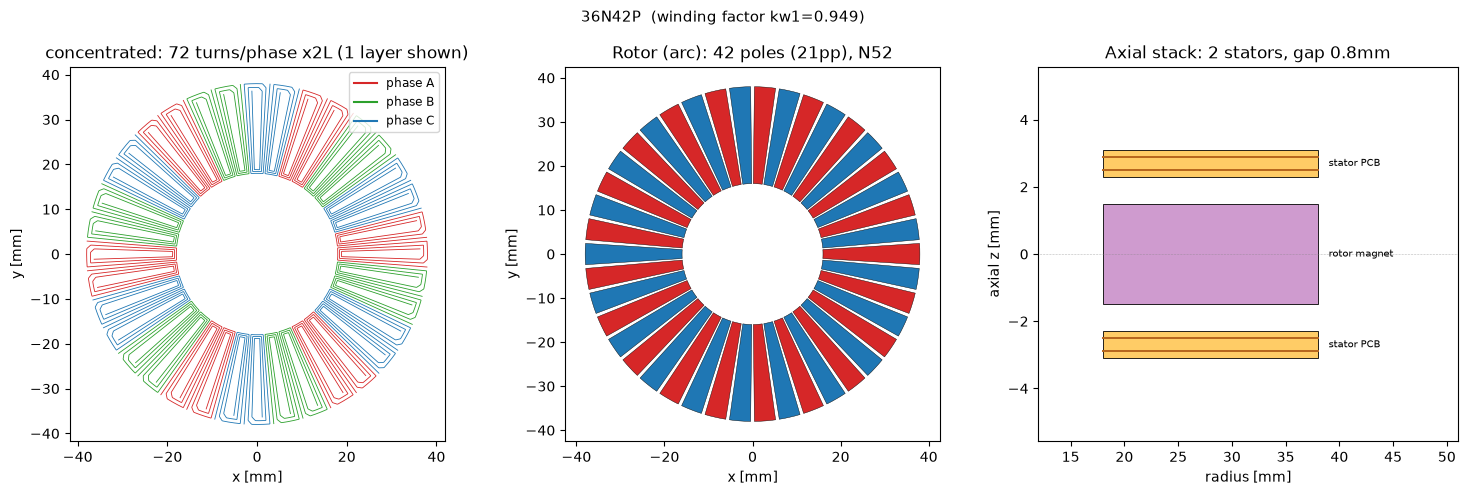
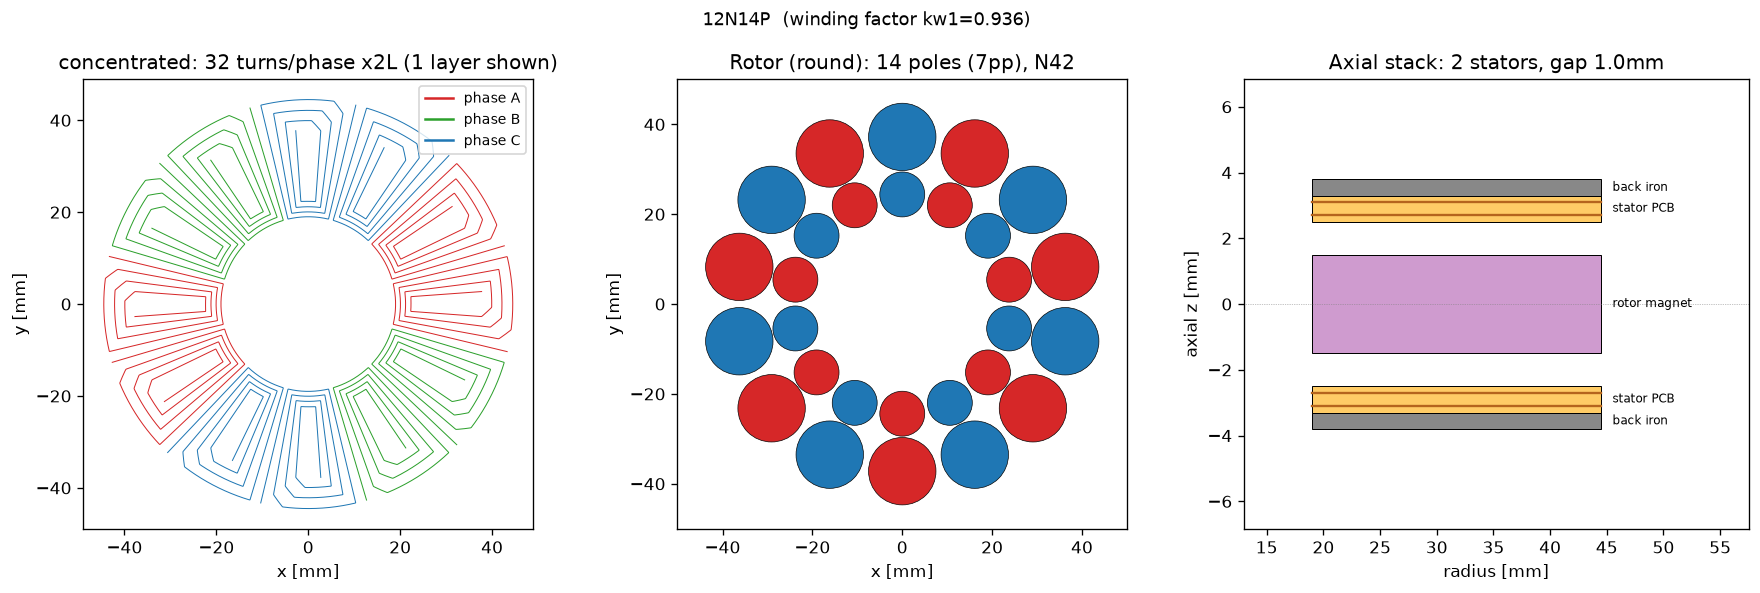
Refocus README on the 12N14P; enforce >=1mm magnet spacing; correct 3-ring
Repo now leads with the fabricated 12N14P main event, not the 42-pole eval:
- README hero + physics images regenerated from dualstator90-12n14p (were 36N42P);
  worked-examples reordered so "the board that was fabricated" is first, with the
  80/140 mm designs demoted to a labelled "Generalization evals" section.

>=1 mm magnet-to-housing spacing:
- Generic engine check: magnets.magnet_edge_gaps + a warning in evaluate_design
  (flags <1 mm pole-to-pole and ring-to-ring on any round rotor). Unit-tested.
- Corrected the 140 mm 3rd ring: Ø8 (0.0 mm radial -- touching, my error) -> Ø6
  (1.0 mm radial). Torque honestly re-stated +21.8% (142 -> 173 mN.m, Kt 118), and
  the design still trips the warning at 0.98 mm (the agent's own inner ring).
- Documented round3 + the rule in the design guide and skill.

140 mm design (dualstator140-24n28p): framed as the independent agent's untouched
one-shot design, with the SINGLE exception of the maintainer-requested third ring.

Fixes found in a correctness audit: stale examples/gimbal90 path in CLAUDE.md and a
broken --session gimbal90 command in the fabricated README (rename had missed them).
All published numbers verified against a fresh evaluate_design; suite 142 passed.

Claude-Session: https://claude.ai/code/session_016nY5Rn2NTaGpBBvjt3SCXb

diff --git a/index.html b/index.html
@@ -83,10 +83,10 @@
         <span class="badge fail">GATE: needs a choke</span>
         <span class="arrow">→</span></h2>
       <p>A fresh agent, given only an application brief and the design skill, took
-      the workflow end to end on its own: a 24N28P machine on three rings of disc
-      magnets, ~192&nbsp;mNm continuous (±30%), a complete board and fab-ready
-      Gerbers — and an honest verdict that it needs a series choke to run from a
-      bare ODrive.</p>
+      the workflow end to end on its own: a 24N28P machine (later given a third
+      magnet ring), ~173&nbsp;mNm continuous (±30%), a complete board and
+      fab-ready Gerbers — and an honest verdict that it needs a series choke to
+      run from a bare ODrive.</p>
     </a>
     <a class="card" href="examples/dualstator80-36n42p/report.html">
       <h2>dualstator80-36n42p — an 80&thinsp;mm no-choke attempt, honestly lost

diff --git a/tests/test_magnets.py b/tests/test_magnets.py
@@ -32,6 +32,30 @@ def test_round_two_ring_structure():
             assert np.hypot(cx, cy) == pytest.approx(ring_r, rel=1e-3)
 
 
+def test_magnet_edge_gaps():
+    from pcb_motor.magnets import magnet_edge_gaps
+    # arc topology has no discrete discs
+    assert magnet_edge_gaps(RotorConfig(magnet_topology="arc")) is None
+    # round3 with generous spacing: outer 58/Ø12, mid 48/Ø6, inner 40/Ø8, 28 poles
+    r = RotorConfig(magnet_topology="round3", pole_pairs=14,
+                    outer_ring_r_m=58e-3, outer_disc_d_m=12e-3,
+                    mid_ring_r_m=48e-3, mid_disc_d_m=6e-3,
+                    inner_ring_r_m=40e-3, inner_disc_d_m=8e-3)
+    g = magnet_edge_gaps(r)
+    # radial: (48-40)-(3+4)=1.0mm ; (58-48)-(6+4)... =(10)-(9)=1.0mm
+    assert g["radial_m"] == pytest.approx([1e-3, 1e-3], abs=1e-6)
+    # min is the tight inner pole-to-pole gap (~0.98mm), and it's the overall min
+    assert g["min_m"] == pytest.approx(min(g["circumferential_m"] + g["radial_m"]))
+    # widening the disc shrinks every gap
+    g2 = magnet_edge_gaps(dataclasses_replace(r, mid_disc_d_m=8e-3))
+    assert min(g2["radial_m"]) < min(g["radial_m"])
+
+
+def dataclasses_replace(obj, **kw):
+    import dataclasses
+    return dataclasses.replace(obj, **kw)
+
+
 def test_round3_three_ring_structure():
     """round3: 3 discs (outer+middle+inner) per pole, all sharing that pole's
     polarity; disc centres sit on the three ring radii, outer>mid>inner."""

diff --git a/pcb_motor/magnets.py b/pcb_motor/magnets.py
@@ -145,6 +145,28 @@ def active_rings(rotor: RotorConfig) -> list[tuple[float, float]]:
     return [outer, inner]
 
 
+def magnet_edge_gaps(rotor: RotorConfig) -> dict | None:
+    """Edge-to-edge spacing [m] between neighbouring disc magnets on a round
+    rotor (``None`` for the ``arc`` topology, which has no discrete discs).
+
+    Two ways discs crowd their neighbours, both needing carrier/housing between
+    them: **circumferential** (pole-to-pole on one ring) and **radial**
+    (ring-to-ring). Returns per-ring circumferential gaps, ring-to-ring radial
+    gaps, and the tightest of all. Manufacturability wants >= ~1 mm everywhere.
+    """
+    if not is_round(rotor.magnet_topology):
+        return None
+    rings = active_rings(rotor)                      # (ring_r, disc_d), outer..inner
+    n_poles = 2 * rotor.pole_pairs
+    circ = [2.0 * np.pi * rr / n_poles - dd for rr, dd in rings]
+    rs = sorted(rings, key=lambda x: x[0])           # inner..outer by radius
+    radial = [(r2 - r1) - (d1 / 2.0 + d2 / 2.0)
+              for (r1, d1), (r2, d2) in zip(rs, rs[1:])]
+    allgaps = circ + radial
+    return {"circumferential_m": circ, "radial_m": radial,
+            "min_m": min(allgaps) if allgaps else float("inf")}
+
+
 def _round_two_ring_loops(
     rotor: RotorConfig,
     theta_rad: float = 0.0,

diff --git a/pcb_motor/evaluate.py b/pcb_motor/evaluate.py
@@ -28,6 +28,11 @@ from .inertia import rotor_inertia, total_inertia
 # hot spot even when the lumped thermal balance is satisfied.
 NECK_DENSITY_LIMIT_A_MM2 = 80.0
 
+# Minimum carrier/housing between neighbouring disc magnets [m]. Round-magnet
+# rotors need material between discs (both pole-to-pole and ring-to-ring) to hold
+# them; below this the rotor is not practically buildable.
+MIN_MAGNET_GAP_M = 1.0e-3
+
 
 def evaluate_design(design: MotorDesign) -> dict:
     """Evaluate one design point. Returns the full result-variable dict."""
@@ -114,6 +119,21 @@ def evaluate_design(design: MotorDesign) -> dict:
             f"narrowest section exceeds ~{NECK_DENSITY_LIMIT_A_MM2:.0f} A/mm^2: "
             "expect a hot neck at r_inner -- widen trace_width_m, add copper "
             "weight, or move r_inner_m outward."
+        )
+
+    # Disc-magnet spacing: round rotors need carrier/housing between magnets.
+    from .magnets import magnet_edge_gaps
+    gaps = magnet_edge_gaps(design.rotor())
+    if gaps is not None and gaps["min_m"] < MIN_MAGNET_GAP_M:
+        circ = min(gaps["circumferential_m"]) * 1e3
+        detail = f"min pole-to-pole {circ:.2f} mm"
+        if gaps["radial_m"]:
+            detail += f", min ring-to-ring {min(gaps['radial_m'])*1e3:.2f} mm"
+        warnings.append(
+            f"disc magnets are only {gaps['min_m']*1e3:.2f} mm apart at the "
+            f"tightest point ({detail}); keep >= {MIN_MAGNET_GAP_M*1e3:.0f} mm of "
+            "carrier between magnets -- shrink disc diameter, spread the ring "
+            "radii, or drop the pole count."
         )
 
     if design.rotor_sides == 2:

diff --git a/README.md b/README.md
@@ -128,10 +128,10 @@ Rounding out the CLI: `config` (setup figure), `showcase` (the shareable single-
 story page — see below), `compare` (sessions side by side), and `sweep` / `optimize`
 (interactive dashboards and optuna, with the `[sweep]` extra).
 
-Here's a 36-slot / 42-pole demo winding the engine generated, and the Biot–Savart field
-its rotor puts through the stator plane:
+Here's the fabricated 12N14P winding the engine generated, and the Biot–Savart field its
+rotor puts through the stator plane:
 
-![36N42P coil layout](docs/images/coil_layout.png)
+![12N14P coil layout](docs/images/coil_layout_12n14p.png)
 
 ![Airgap B_z field at the stator plane](docs/images/b_field.png)
 
@@ -158,29 +158,33 @@ its rotor puts through the stator plane:
   worst-case PWM current ripple (`v_bus / (4·L·f_pwm)`) and the external inductance
   needed to hit your ripple budget. Most small PCB motors need that choke.
 
-## Worked examples
+## The main event: the board that was fabricated
 
-[`examples/dualstator80-36n42p/`](examples/dualstator80-36n42p/) is a complete design session, committed
-as-is: an 80 mm, 42-pole dual-stator pancake built from off-the-shelf round disc magnets
-(42× Ø5 mm + 42× Ø4 mm N52), on two ordinary 2-layer 1 oz JLC boards. The tool's verdict:
-**Kt 20.75 mNm/A, 20.5 mNm continuous (±30%) at just under 1 A and 3 Ω**, with an honest
-note the brief didn't ask for: *driving it choke-free from an ODrive is infeasible by
-32×; budget ~204 µH of external inductance per phase.* The directory has the
-requirements, the saved design, the datasheet, the clearance-verified footprint, the
-KiCad project, and a README telling the whole story — including where the tool says no.
+[`examples/dualstator90-12n14p/`](examples/dualstator90-12n14p/) (shipped as *gimbal90*) is
+a real 90 mm 12N14P dual-stator stator that was **actually fabricated** — this is the
+board the whole repo exists to reproduce. It is a fully-routed board (every coil link, WYE
+star and phase lead baked into copper), with back iron, M3 mounting tabs and PTH terminals.
+`pcb-motor board --session dualstator90-12n14p --gerbers` regenerates it and plots its
+Gerbers; the regenerated board is coordinate-for-coordinate identical to the manufactured
+one in [`examples/dualstator90-12n14p/fabricated/`](examples/dualstator90-12n14p/fabricated/)
+and the Gerbers match it layer-for-layer (see `tests/test_board_fabequiv.py`).
 
-The best way to meet a design is the **showcase report** — one self-contained HTML page
-from `pcb-motor showcase`: the rotor spinning over the real copper with the Biot–Savart
-field, the zoomable board artwork with its real outline and mounting tabs, the exploded
-stack, the trace-width trade charts, and the drive-gate verdict in large print.
+The best way to meet it is the **showcase report** — one self-contained HTML page from
+`pcb-motor showcase`: the rotor spinning over the real copper with the Biot–Savart field,
+the zoomable board artwork with its real outline and mounting tabs, the exploded stack, the
+trace-width trade charts, and the drive-gate verdict in large print.
 
-[`examples/dualstator90-12n14p/`](examples/dualstator90-12n14p/) is a real 90 mm stator that was **actually
-fabricated**: a fully-routed board (every coil link, WYE star and phase lead baked into
-copper), M3 mounting tabs and PTH terminals. `pcb-motor board --session dualstator90-12n14p
---gerbers` regenerates it and plots its Gerbers; the regenerated board is
-coordinate-for-coordinate identical to the manufactured one in
-[`examples/dualstator90-12n14p/fabricated/`](examples/dualstator90-12n14p/fabricated/) and the Gerbers match it
-layer-for-layer (see `tests/test_board_fabequiv.py`).
+## Generalization evals (proof it isn't over-fit to that one board)
+
+Two further sessions exist only to show the same concept→board→Gerber workflow holds for
+*different* machines, driven the same way:
+
+- [`examples/dualstator80-36n42p/`](examples/dualstator80-36n42p/) — an 80 mm, 42-pole
+  dual-stator pancake (off-the-shelf round disc magnets). The tool's honest verdict:
+  **20.5 mNm continuous (±30%)**, and *driving it choke-free from an ODrive is infeasible by
+  32× — budget ~204 µH per phase.* It reports the "no" instead of hiding it.
+- [`examples/dualstator140-24n28p/`](examples/dualstator140-24n28p/) — a 140 mm 24N28P
+  machine an **independent agent** designed end-to-end from only a brief and the skill.
 
 ## The physics, honestly
 

diff --git a/examples/dualstator140-24n28p/README.md b/examples/dualstator140-24n28p/README.md
@@ -5,8 +5,11 @@ general, or is it secretly tuned for the dualstator90-12n14p board it was built 
 
 To test that honestly, a **fresh agent** — given only an application brief, this repo,
 and the `pcb-motor-design` skill, and *none* of the authoring context — drove the entire
-workflow itself. Nobody hand-edited its design to make it work. What's here is what it
-produced.
+workflow itself, in one shot, on the first run, with zero tool fixes. What's here is what
+it produced, **untouched except for one later change made at the maintainer's explicit
+request: a third magnet ring** (see "Maintainer enhancement" below). Everything else —
+the 24N28P winding, the board, the Gerbers, the honest gate failure — is exactly the
+agent's one-shot output.
 
 ## The brief it was given
 
@@ -27,14 +30,17 @@ produced.
 
 ## Maintainer enhancement — a third magnet ring
 
-The agent shipped a **two-ring** rotor (that is what the eval recorded). Afterwards, as a
-generic tool capability, this repo grew a `round3` topology (a middle ring of discs per
-pole). Dropping a third ring of Ø8 mm N52 discs at r = 48 mm — into the empty radial gap
-between the agent's inner (Ø8 @ 40 mm) and outer (Ø12 @ 58 mm) rings, still inside the
-copper annulus — lifts continuous torque **+35.6%** (142 → **192 mN·m**, Kt 97 → **132
-mN·m/A**) for the same winding, current and copper. This is a *documented change to the
-artifact*, not part of the blind eval; the two-ring numbers above are what the agent
-produced on its own.
+The agent shipped a **two-ring** rotor (that is what the eval recorded). Afterwards, at
+the maintainer's explicit request, this repo grew a general `round3` topology (a middle
+ring of discs per pole) and applied it here — **the single deviation from the agent's
+one-shot design.** Dropping a third ring of **Ø6 mm** N52 discs at r = 48 mm — into the empty radial
+gap between the agent's inner (Ø8 @ 40 mm) and outer (Ø12 @ 58 mm) rings, still inside the
+copper annulus — lifts continuous torque **+21.8%** (142 → **173 mN·m**, Kt 97 → **118
+mN·m/A**) for the same winding, current and copper. Ø6 is the largest disc that keeps the
+required **≥1 mm of carrier on both radial sides** (the engine now warns below that). This
+is a *documented change to the artifact*, not part of the blind eval; the two-ring numbers
+above are what the agent produced on its own. (Note: the agent's inner ring sits at
+0.98 mm pole-to-pole — essentially 1 mm, and the tool flags it rather than hiding it.)
 
 ## What it delivered (all PASS)
 
@@ -47,9 +53,9 @@ produced on its own.
 | Datasheet / design | `datasheet.md`, `motor.json`, `requirements.yaml` |
 
 Headline numbers (analytical, **±30%** — calibrate against FEMM / a bench coil before
-spending money), **with the three-ring rotor**: **Kt ≈ 132 mNm/A, ~192 mNm continuous**
+spending money), **with the three-ring rotor**: **Kt ≈ 118 mNm/A, ~173 mNm continuous**
 at 1.46 A / 6.0 Ω, drive voltage 11.6 V (comfortable under the 24 V bus), kw1 0.9374,
-airgap |Bz| ≈ 0.13 T. (The agent's original two-ring rotor: Kt ≈ 97 mNm/A, ~142 mNm,
+airgap |Bz| ≈ 0.12 T. (The agent's original two-ring rotor: Kt ≈ 97 mNm/A, ~142 mNm,
 |Bz| ≈ 0.10 T.)
 
 ## The honest verdict

diff --git a/examples/dualstator140-24n28p/datasheet.md b/examples/dualstator140-24n28p/datasheet.md
@@ -3,32 +3,33 @@
 | Parameter | Value |
 | --- | --- |
 | Winding | concentrated, 24N28P, 3-phase, 1 parallel path(s) |
-| Magnets | N52, round3, 14 pole-pairs, 3.0 mm, D12 discs @ r=58 mm, D8 discs @ r=48 mm, D8 discs @ r=40 mm |
+| Magnets | N52, round3, 14 pole-pairs, 3.0 mm, D12 discs @ r=58 mm, D6 discs @ r=48 mm, D8 discs @ r=40 mm |
 | Stators | 2 x 2-layer, 0.80 mm FR4, 1 oz Cu |
 | Active annulus | 30.0 - 67.0 mm |
 | Trace / space | 0.600-1.497 (tapered) / 0.127 mm |
 | Air gap (per side) | 1.00 mm |
-| Kt (torque constant) | 131.8 mNm/A |
+| Kt (torque constant) | 118.4 mNm/A |
 | Phase resistance @20C | 6.042 ohm |
-| Mean / peak airgap |Bz| | 0.1319 / 0.3285 T |
+| Mean / peak airgap |Bz| | 0.1177 / 0.3307 T |
 | Turns / phase / layer-set | 80 |
 | Winding factor kw1 | 0.937 |
 | Continuous current | 1.461 A |
-| Continuous torque | 192.5 mNm |
+| Continuous torque | 172.9 mNm |
 | Drive voltage (cont) | 11.58 V |
 | Phase inductance (air-core) | 34.78 uH |
 | PWM ripple (bare winding) | 7.189 A pp worst-case @ 24 V bus, 24 kHz PWM (budget 30% of I_cont) |
 | PWM ripple gate | FAIL (7.189 A pp > 0.4382 A budget, 16x -- needs ~535.7 uH/phase external L) |
 | Ext. choke for ripple budget | 535.7 uH |
 | Current density | 69.56 A/mm^2 |
-| Airgap shear | 0.352 kPa |
-| Rotor / total inertia | 0.000414 / 0.000414 kg*m^2 |
-| Continuous acceleration | 464.8 rad/s^2 |
+| Airgap shear | 0.3161 kPa |
+| Rotor / total inertia | 0.000382 / 0.000382 kg*m^2 |
+| Continuous acceleration | 452.5 rad/s^2 |
 | Copper mass | 12.16 g |
 
 ## Warnings
 
 - PWM ripple 7.19 A pp exceeds the 0.44 A budget (16x) at 24 V bus / 24 kHz / 30% of I_cont: not drivable without ~536 uH/phase external inductance -- see design guide Stage 5.
+- disc magnets are only 0.98 mm apart at the tightest point (min pole-to-pole 0.98 mm, min ring-to-ring 1.00 mm); keep >= 1 mm of carrier between magnets -- shrink disc diameter, spread the ring radii, or drop the pole count.
 
 ---
 *pcb-motor analytical Biot-Savart model, roughly +/-30% on absolute torque. Calibrate against FEMM or a bench coil before committing to a build.*

diff --git a/.claude/skills/pcb-motor-design/SKILL.md b/.claude/skills/pcb-motor-design/SKILL.md
@@ -103,11 +103,13 @@ If the user's magnet stock is off-the-shelf round discs (it usually is), set
 `outer_ring_r_m`/`outer_disc_d_m` (outer disc ring centre radius / disc diameter)
 and `inner_ring_r_m`/`inner_disc_d_m` (inner ring). Each pole is one outer + one
 inner disc, same polarity. In round mode `pole_coverage` / `magnet_r_inner_m` /
-`magnet_r_outer_m` are inert (arc-only) — don't sweep them. Check buildability:
-adjacent discs must not overlap, and the printed carrier needs a real wall between
-pockets (~0.8 mm FDM, ~0.3 mm resin — or open-walled pockets, where inter-disc
-repulsion holds each disc against its rim); the model will happily reward a 0.16 mm
-paper wall, so you must catch it.
+`magnet_r_outer_m` are inert (arc-only) — don't sweep them. To fill the empty radial
+band between the two rings (idle current-carrying copper), use `magnet_topology=round3`
+with a middle ring (`mid_ring_r_m` / `mid_disc_d_m`) — it can add real torque.
+Buildability: adjacent discs need a real carrier wall between them — the engine now
+**warns when any two discs are <1 mm apart** (pole-to-pole *and* ring-to-ring), so watch
+for that warning and shrink disc diameter / spread the rings / drop poles to clear it.
+The model will happily reward a 0.16 mm paper wall, so don't ignore the warning.
 
 Read the headline metrics back against the user's targets — call out where it's
 short or over.

diff --git a/docs/design_guide.md b/docs/design_guide.md
@@ -95,7 +95,7 @@ The knobs, grouped. Defaults in parentheses.
 | `magnet_thickness_m` | 3 mm | Thicker → more field, with diminishing returns once thickness ≳ pole pitch. |
 | `magnet_r_inner_m` / `magnet_r_outer_m` | 10/30 mm | Magnet annulus; roughly track the coil annulus. |
 | `pole_coverage` | 0.85 | Fraction of each pole pitch covered by magnet (arc topology). |
-| `magnet_topology` | arc | `arc` = continuous pole-arc ring (custom arc segments). `round` = two concentric rings of off-the-shelf round disc magnets — the buy-it-today rotor (`outer_ring_r_m`, `outer_disc_d_m`, `inner_ring_r_m`, `inner_disc_d_m`). |
+| `magnet_topology` | arc | `arc` = continuous pole-arc ring (custom arc segments). `round` = two concentric rings of off-the-shelf round disc magnets — the buy-it-today rotor (`outer_ring_r_m`, `outer_disc_d_m`, `inner_ring_r_m`, `inner_disc_d_m`). `round3` = same, plus a middle ring (`mid_ring_r_m`, `mid_disc_d_m`) to fill the radial gap over active copper. |
 | `carrier_thickness_m` | 1.5 mm | 3D-printed rotor carrier, counted in rotor inertia. |
 
 #### Round-disc rotors (`magnet_topology="round"`)
@@ -130,6 +130,12 @@ Two things to know before sweeping these:
   round rotors for the same reason). Don't waste sweep budget on them.
 - Single-ring study variants exist: `round_outer` (outer ring only) and
   `round_inner` (inner ring only) — useful for asking what each ring buys.
+- A **third ring** (`magnet_topology="round3"`, adding `mid_ring_r_m` / `mid_disc_d_m`)
+  fills the radial band between the inner and outer rings. That band is empty of field
+  but full of current-carrying copper, so a middle ring turns otherwise-idle copper into
+  torque (see [`examples/dualstator140-24n28p`](../examples/dualstator140-24n28p/README.md),
+  +21.8% torque). Keep **≥1 mm of carrier between every disc** — the engine warns below
+  that (both pole-to-pole and ring-to-ring), which caps the middle-disc diameter.
 
 Sanity-check the geometry after choosing radii/diameters: adjacent discs on a ring
 must not overlap, and see the Stage 7 carrier-wall note before you fall in love with

diff --git a/CLAUDE.md b/CLAUDE.md
@@ -34,9 +34,10 @@ skipped with an actionable message. All non-Gerber code is testable without KiCa
 
 ## Honest limits to preserve
 
-- gimbal90 (`examples/gimbal90/`) is the fabricated board; `build_routed_project`
-  reproduces it **coordinate-identically** — don't perturb `pcb_motor/kicad/routed.py`
-  or that guarantee (`tests/test_board_fabequiv.py` pins it).
+- `examples/dualstator90-12n14p/` (shipped as *gimbal90*) is the fabricated board;
+  `build_routed_project` reproduces it **coordinate-identically** — don't perturb
+  `pcb_motor/kicad/routed.py` or that guarantee (`tests/test_board_fabequiv.py` pins it).
+  Its `fabricated/` golden files keep their as-built `gimbal90_routed_tabs` names.
 - The general board path (`build_board`) leaves the cross-ring phase interconnect as a
   **ratsnest** for a human to route in KiCad; the coil copper is netless graphic
   (manufacturable, not connectivity-DRC-clean). State this; don't claim otherwise.

diff --git a/examples/dualstator90-12n14p/fabricated/README.md b/examples/dualstator90-12n14p/fabricated/README.md
@@ -7,7 +7,7 @@ as the golden reference:
 - `gimbal90_routed_tabs.kicad_pcb` / `.kicad_pro` — the KiCad board sent to fab.
 - `gimbal90_routed_TABS_gerbers.zip` — the Gerber set that was ordered.
 
-**What this proves.** `pcb-motor board --session gimbal90 --gerbers` regenerates
+**What this proves.** `pcb-motor board --session dualstator90-12n14p --gerbers` regenerates
 this board from the committed routed footprint and exports its Gerbers. The
 regenerated `.kicad_pcb` is **coordinate-for-coordinate identical** to this one
 (same 17,665 copper/edge points, same bore, same placement), and Gerbers plotted